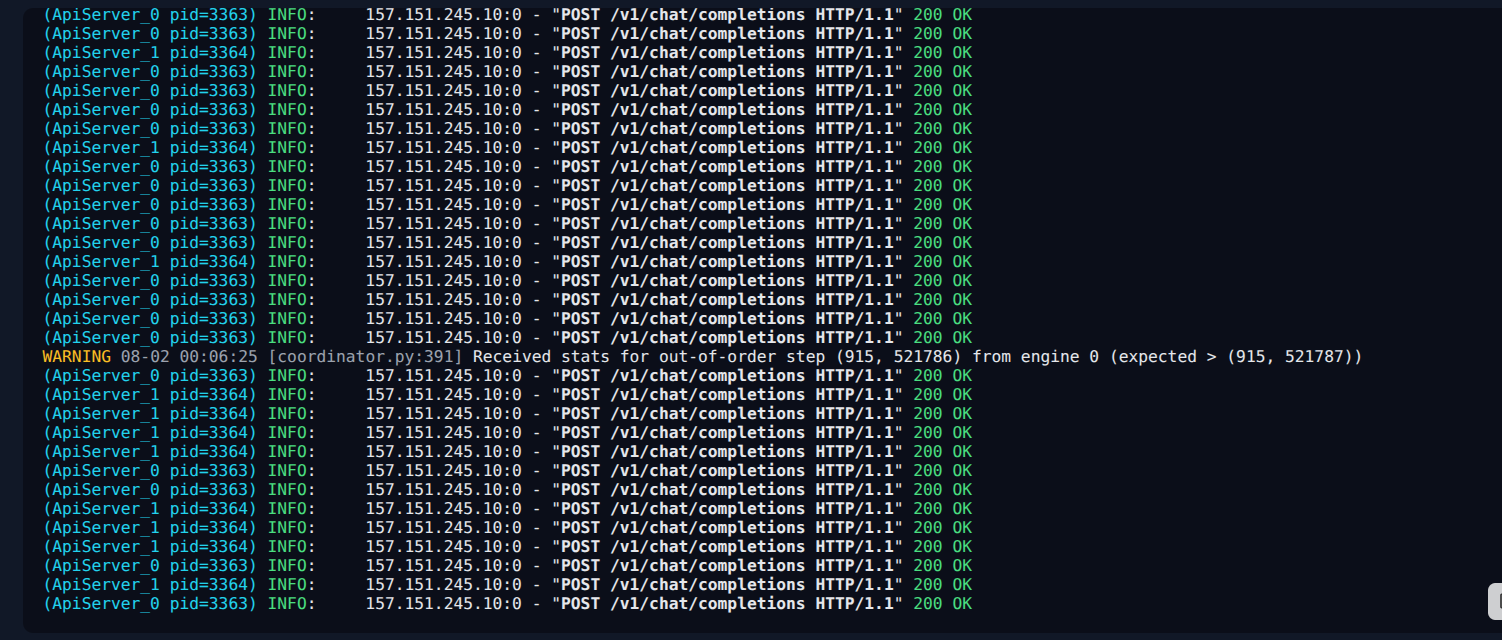
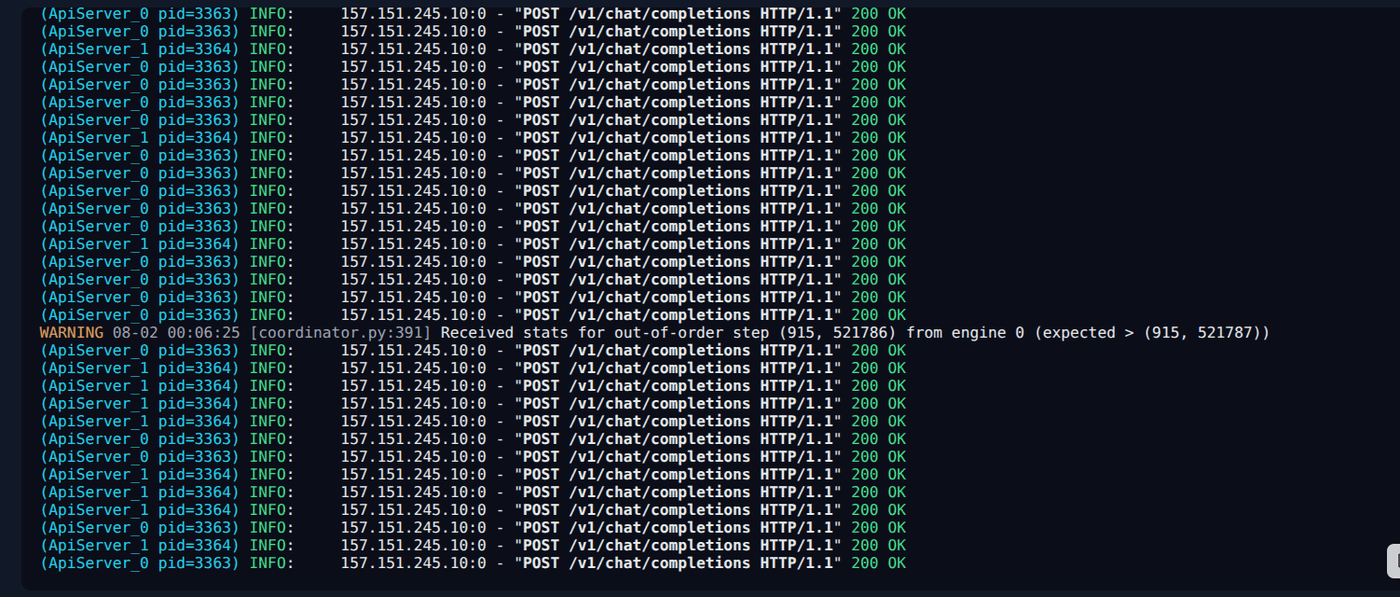
Fix mobile layout, tap targets, and image weight
Nav links now use padding for ~44px tap targets and wrap cleanly at
360px; headings use clamp() so the name stops eating three lines on a
phone. Case screenshots are downscaled and quantized (741KB -> 348KB)
and wrapped in a link so a phone user can open the full-size capture
instead of squinting at a 1400px image shrunk to 340px.

diff --git a/style.css b/style.css
@@ -29,7 +29,8 @@ header.site-nav {
     flex-wrap: wrap;
     align-items: center;
     justify-content: space-between;
-    padding: 20px 40px;
+    gap: 4px 16px;
+    padding: 14px 24px;
     border-bottom: 1px solid var(--border);
     background: var(--card-bg);
 }
@@ -41,8 +42,15 @@ header.site-nav {
     letter-spacing: 1px;
 }
 
+nav.links {
+    display: flex;
+    flex-wrap: wrap;
+    margin-right: -10px;   /* cancel the last link's padding so it aligns flush */
+}
+
+/* padding (not margin) so each link is its own ~44px tap target on a phone */
 nav.links a {
-    margin-left: 24px;
+    padding: 10px;
     color: var(--text);
     font-weight: 600;
     font-size: 0.95em;
@@ -56,8 +64,12 @@ main {
     padding: 48px 24px 80px;
 }
 
+/* clamp() = never smaller than 1.75rem, never bigger than 2.4rem,
+   scaling with viewport width in between — stops the name eating
+   three lines on a phone */
 .hero h1 {
-    font-size: 2.2em;
+    font-size: clamp(1.75rem, 6vw, 2.4rem);
+    line-height: 1.15;
     margin-bottom: 4px;
     color: var(--accent);
     letter-spacing: 1px;
@@ -93,15 +105,33 @@ main {
 .case-card:hover { border-color: var(--accent); text-decoration: none; }
 
 .case-header { margin-bottom: 32px; }
-.case-header .back { display: inline-block; margin-bottom: 16px; font-size: 0.9em; }
-.case-header h1 { margin-bottom: 4px; }
+.case-header .back {
+    display: inline-block;
+    margin-bottom: 16px;
+    padding: 6px 0;      /* taller tap target on mobile */
+    font-size: 0.9em;
+}
+.case-header h1 {
+    font-size: clamp(1.6rem, 5.5vw, 2rem);
+    line-height: 1.2;
+    margin-bottom: 4px;
+}
+
+/* wraps the screenshot in a link so a phone user can open the full-size
+   image instead of squinting at a 1400px capture shrunk to 340px */
+.case-figure { margin: 24px 0; }
 
 .case-image {
     width: 100%;
     border: 1px solid var(--border);
     border-radius: 8px;
-    margin: 24px 0;
     display: block;
+}
+
+.case-figure figcaption {
+    font-size: 0.85em;
+    color: var(--muted);
+    margin-top: 8px;
 }
 
 section.block { margin-bottom: 28px; }
@@ -132,4 +162,15 @@ footer.site-footer {
     font-size: 0.9em;
 }
 
-footer.site-footer a { margin: 0 10px; }
+footer.site-footer a {
+    display: inline-block;
+    margin: 0 4px;
+    padding: 10px;      /* tap target */
+}
+
+/* ---------- mobile ---------- */
+@media (max-width: 600px) {
+    header.site-nav { padding: 10px 16px; }
+    main { padding: 32px 18px 56px; }
+    .case-card { padding: 20px; }
+}

diff --git a/edix.html b/edix.html
@@ -67,7 +67,12 @@
                 Below is the school's identity and wallet screen, on Cardano's preprod test
                 network, used to fund the transaction fees for issuing credentials.
             </p>
-            <img class="case-image" src="images/edix-blockchain-identity.png" alt="Edix school sovereign identity screen showing wallet address and balance on Cardano preprod">
+            <figure class="case-figure">
+                <a href="images/edix-blockchain-identity.png" target="_blank" rel="noopener">
+                    <img class="case-image" src="images/edix-blockchain-identity.png" alt="Edix school sovereign identity screen showing wallet address and balance on Cardano preprod" loading="lazy" width="1215" height="705">
+                </a>
+                <figcaption>Tap to open the full-size capture.</figcaption>
+            </figure>
         </section>
 
         <section class="block">

diff --git a/campuspq.html b/campuspq.html
@@ -45,7 +45,12 @@
                 Below is the live OpenAPI documentation for the service, showing the health-check
                 and authentication endpoints that back the platform.
             </p>
-            <img class="case-image" src="images/campuspq-api-docs.png" alt="CampusPQ OpenAPI documentation showing health and authentication endpoints">
+            <figure class="case-figure">
+                <a href="images/campuspq-api-docs.png" target="_blank" rel="noopener">
+                    <img class="case-image" src="images/campuspq-api-docs.png" alt="CampusPQ OpenAPI documentation showing health and authentication endpoints" loading="lazy" width="1400" height="685">
+                </a>
+                <figcaption>Tap to open the full-size capture.</figcaption>
+            </figure>
         </section>
 
         <section class="block">

diff --git a/fl04.html b/fl04.html
@@ -49,7 +49,12 @@
                 open-weight model behind this pipeline, handling the
                 <code>/v1/chat/completions</code> calls for each draft/critique/revise step.
             </p>
-            <img class="case-image" src="images/fl04-vllm-logs.png" alt="vLLM inference server logs showing successful /v1/chat/completions requests">
+            <figure class="case-figure">
+                <a href="images/fl04-vllm-logs.png" target="_blank" rel="noopener">
+                    <img class="case-image" src="images/fl04-vllm-logs.png" alt="vLLM inference server logs showing successful /v1/chat/completions requests" loading="lazy" width="1400" height="597">
+                </a>
+                <figcaption>Tap to open the full-size capture.</figcaption>
+            </figure>
         </section>
 
         <section class="block">
